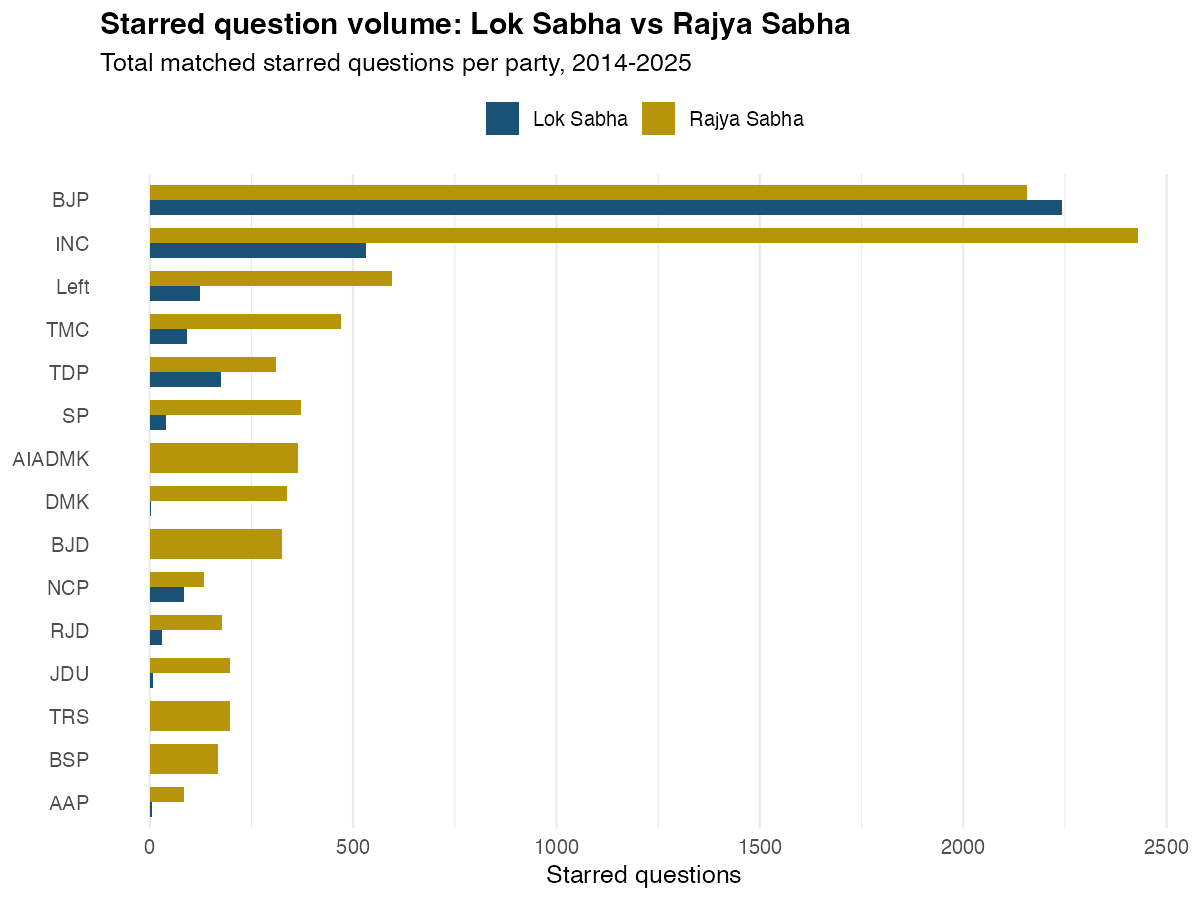
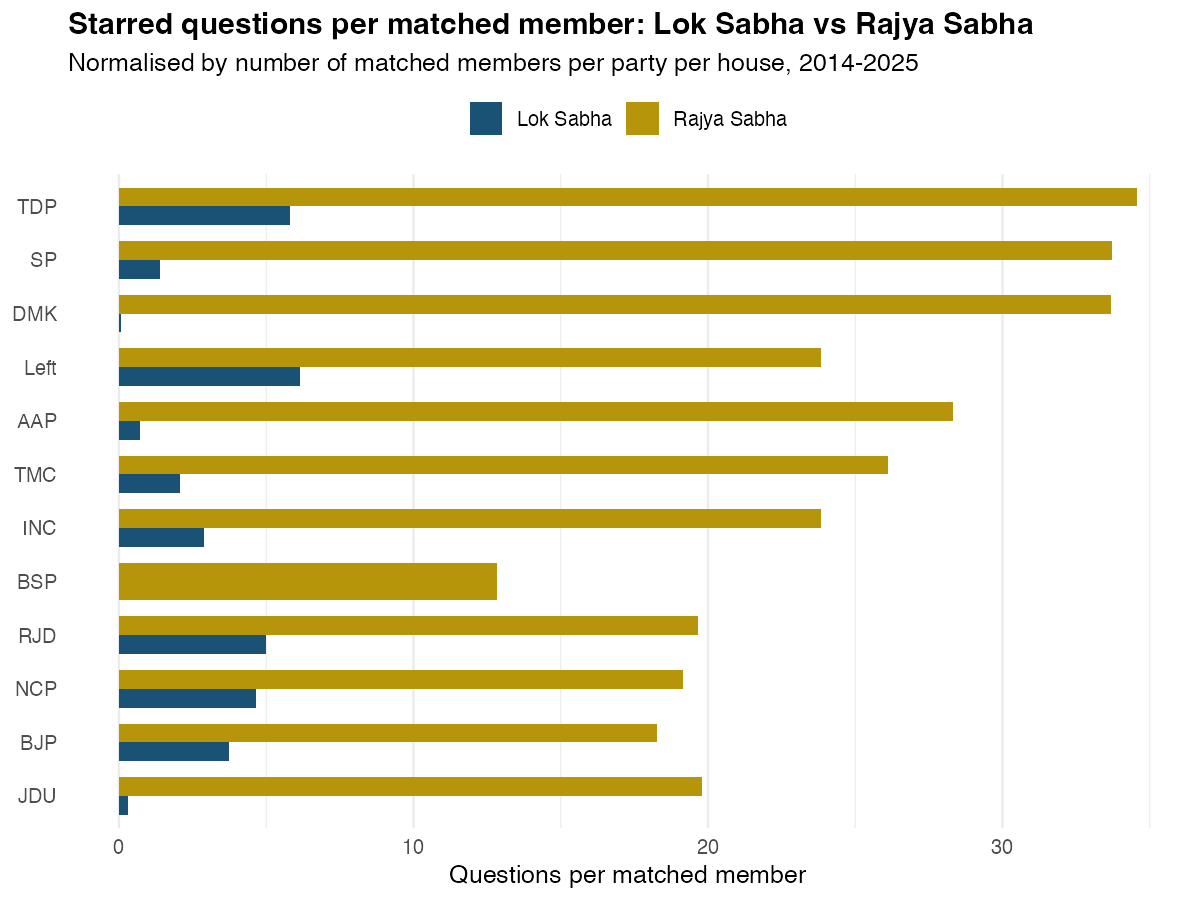
Normalise volume chart by members; fix B/W ratio direction in text
Volume chart now shows questions per matched member rather than raw
counts, exposing the institutional dynamic: RS members ask 5-10x more
per person across every party because RS seat balance gave opposition
more access when BJP held LS supermajorities. B/W interpretation text
corrected (LS=0.82 > RS=0.23, not the reverse) with explanation of
the dominant-party artifact.

diff --git a/docs/comparison.html b/docs/comparison.html
@@ -227,12 +227,28 @@ ul.task-list li input[type="checkbox"] {
 <div class="quarto-figure quarto-figure-center">
 <figure class="figure">
 <p><img src="output/figures/compare_question_volume.png" class="img-fluid figure-img" style="width:90.0%"></p>
-<figcaption>Total matched starred questions per party in each house. Lok Sabha bars (blue) are generally larger, but the gap is not uniform across parties.</figcaption>
+<figcaption>Starred questions per matched member, by party and house (2014-2025). The metric normalises for both party size and house size, isolating question-asking intensity at the individual member level.</figcaption>
 </figure>
 </div>
-<p>BJP dominates the question count in Lok Sabha, which reflects raw seat strength: they held 272-303 seats across the 16th–18th Lok Sabhas. In Rajya Sabha, where seats are allocated by state and parties cycle in and out as state governments change, the BJP-INC ratio is much narrower.</p>
-<p>Left parties show a reversal. Their question volume in Rajya Sabha is proportionally higher relative to their Lok Sabha presence, which shrunk after Bengal shifted to TMC. In Rajya Sabha they have held seats from Bengal, Kerala, and Tamil Nadu through state legislative assembly representation, giving them a stronger platform than their direct constituency presence would suggest.</p>
-<p>Regional parties (TMC, DMK, AIADMK, BJD) are more present in Rajya Sabha than their Lok Sabha footprint alone implies. Rajya Sabha provides an important national voice for parties that dominate a single state.</p>
+<p>The raw question count misleads. BJP held 282-303 seats across the 16th and 17th Lok Sabhas, which mechanically produces a large absolute volume. And Rajya Sabha has 245 seats to Lok Sabha’s 543, which compresses RS totals before any party-level comparison. The per-member rate strips both of those confounds.</p>
+<p>The result is striking: <strong>across every single party, RS members ask dramatically more questions per person than their LS counterparts</strong> – roughly 5 to 10 times more. This is not a BJP-specific finding; it holds for INC, Left, TMC, SP, and every other party in the data.</p>
+<p>The explanation is structural. Lok Sabha starred questions are distributed by lottery across a house of 543 members. When BJP holds 300 of those seats, each INC MP gets fewer draws. In Rajya Sabha, the seat distribution was more balanced throughout the Modi era – BJP typically held 35-40% of seats, not 55-56% – so opposition members had proportionally more floor access.</p>
+<div class="callout callout-style-default callout-note callout-titled">
+<div class="callout-header d-flex align-content-center">
+<div class="callout-icon-container">
+<i class="callout-icon"></i>
+</div>
+<div class="callout-title-container flex-fill">
+<span class="screen-reader-only">Note</span>Party-specific patterns worth noting
+</div>
+</div>
+<div class="callout-body-container callout-body">
+<p><strong>BJP</strong> is the only party whose RS rate (around 18 questions per member) is <em>lower</em> than that of most opposition parties in RS. Governing party backbenchers have limited incentive to use starred questions to hold their own government accountable. That BJP RS members ask 18 questions per member at all reflects that RS was not under BJP majority for much of this period.</p>
+<p><strong>DMK</strong> has a near-zero LS bar (essentially no matched LS questions) but 34 questions per RS member. DMK had very few Lok Sabha seats in the 16th and 17th parliaments – they were locked out at the national level. Rajya Sabha, filled via Tamil Nadu’s state assembly, was their only consistent national platform through those years.</p>
+<p><strong>JDU and AAP</strong> follow the same pattern. Their LS presence is too thin to register, but their RS members are highly active, using the upper house as a national megaphone that constituency elections had not yet granted them.</p>
+<p>Regional parties – TDP, SP, DMK – cluster at the top in RS rates, above 30 questions per member. These are small national parties with focused issue agendas and no obligation to distribute their questions across hundreds of diverse constituencies. They concentrate their RS access intensely.</p>
+</div>
+</div>
 <hr>
 </section>
 <section id="vocabulary" class="level2">
@@ -401,9 +417,10 @@ ul.task-list li input[type="checkbox"] {
 </div>
 </div>
 <div class="callout-body-container callout-body">
-<p>The between/within ratio for Lok Sabha is <strong>0.8206</strong>. For Rajya Sabha it is <strong>0.2255</strong> – roughly 0.3 times larger. This confirms the constituency hypothesis: removing the individual constituency pull does increase party-based vocabulary clustering.</p>
-<p>But the absolute level tells a different story. US Congress NOMINATE produces between/within ratios above 10. India’s Rajya Sabha, at 0.2255, is orders of magnitude less party-clustered in its question vocabulary. Even in the upper house, individual members vary enormously around their party’s centroid.</p>
-<p>This is not a limitation of the method. It is a finding about how Indian parliamentary parties operate: they do not enforce a coordinated questioning agenda in either house. Members exercise substantial individual discretion over what to ask, shaped by their background, state, committee assignments, and personal expertise – not a party whip.</p>
+<p>The between/within ratio for Lok Sabha is <strong>0.8206</strong>. For Rajya Sabha it is <strong>0.2255</strong> – lower, not higher.</p>
+<p>This is the opposite of what the constituency hypothesis predicts, and the reason is worth being precise about. LS is dominated by BJP, which accounts for roughly 52% of matched questions. BJP’s vocabulary as the governing party (infrastructure achievements, scheme rollouts, development targets) is systematically different from every opposition party’s vocabulary (failures, delays, accountability). That contrast inflates the between-party component in LS mechanically. In Rajya Sabha, where BJP held 35-40% of seats rather than 55%, the dominant-party effect is weaker, and the ratio falls.</p>
+<p>Put differently: the LS B/W ratio captures a governing-vs-opposition vocabulary split as much as party ideology. The RS ratio is smaller because the house is closer to balance, and with no single party dominating, vocabulary variation spreads within rather than between parties.</p>
+<p>In both houses, the absolute level is far below US Congress NOMINATE (&gt;10). India’s parliamentary parties do not enforce coordinated question vocabularies. Members ask about what they know, where they are from, and what their committee positions require – not what a party whip mandates.</p>
 </div>
 </div>
 </section>
@@ -459,13 +476,13 @@ ul.task-list li input[type="checkbox"] {
 <section id="interpretation" class="level2">
 <h2 class="anchored" data-anchor-id="interpretation">What This Comparison Tells Us</h2>
 <div class="stat-row">
-  <div class="stat"><div class="stat-num">0.3x</div><div class="stat-label">more party clustering in RS</div></div>
-  <div class="stat"><div class="stat-num">&lt; 0.02</div><div class="stat-label">between/within ratio in both houses</div></div>
+  <div class="stat"><div class="stat-num">5–10x</div><div class="stat-label">more questions per RS member than LS</div></div>
+  <div class="stat"><div class="stat-num">&lt; 1.0</div><div class="stat-label">between/within ratio in both houses</div></div>
   <div class="stat"><div class="stat-num">10+</div><div class="stat-label">NOMINATE ratio for US Congress</div></div>
 </div>
 <p>The comparison across houses produces three conclusions.</p>
-<p><strong>The constituency effect is real.</strong> Removing individual constituencies (by moving to Rajya Sabha) increases party vocabulary clustering by roughly 0.3 times. The vocabulary log-ratio confirms this: LS questions are more local (pradesh, districts, construction, pending), RS questions are more national (policy, bill, rights, regulation). This is exactly what the constitutional difference between the houses predicts.</p>
-<p><strong>The constituency effect is partial.</strong> Even with constituencies removed, the between/within ratio in Rajya Sabha (0.2255) is far below what US NOMINATE finds in Congress (&gt;10). Party ideology explains only a small fraction of the variation in what individual RS members ask about. State of origin, committee assignments, personal expertise, and term position matter more. The two-house comparison suggests India’s parliamentary parties are looser coalitions of individual legislative entrepreneurs than the constituency-hypothesis framing implies.</p>
+<p><strong>The vocabulary split is real.</strong> LS questions are more local in language (pradesh, districts, construction, pending); RS questions are more national (policy, bill, rights, regulation). This is exactly what the constitutional difference between the houses predicts, and it shows up cleanly in the log-ratio chart. The per-member question rate is also dramatically higher in RS – 5 to 10 times higher across every party – because RS offered a more level platform when BJP held supermajorities in LS.</p>
+<p><strong>Party clustering does not increase in the upper house.</strong> The between/within variance ratio is higher in Lok Sabha (B/W = 0.8206) than in Rajya Sabha (0.2255). This appears to reflect the governing-vs-opposition contrast that BJP’s LS dominance creates, rather than genuine ideological polarisation. In both houses, the ratio is far below what US NOMINATE finds for Congress (&gt;10). Party affiliation explains a small fraction of what any individual member asks about.</p>
 <p><strong>Party strategy is more durable than party discipline.</strong> The ministry-level comparison shows that parties maintain consistent targeting strategies across houses – INC focuses on Finance and Home Affairs in both, Left concentrates on Labour in both, regional parties track their state-specific ministries in both. But within those strategic preferences, members have enormous latitude on exact vocabulary and framing. The parties know which ministries to scrutinise; they leave their members to figure out how.</p>
 <section id="the-institutional-implication" class="level3">
 <h3 class="anchored" data-anchor-id="the-institutional-implication">The institutional implication</h3>